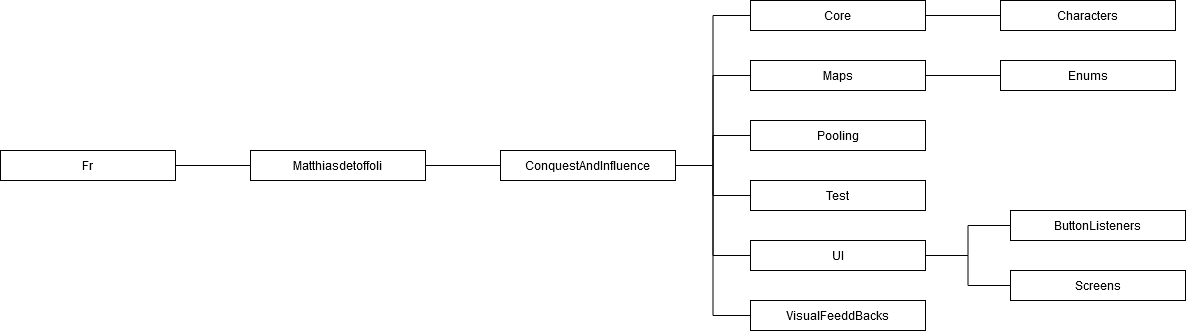
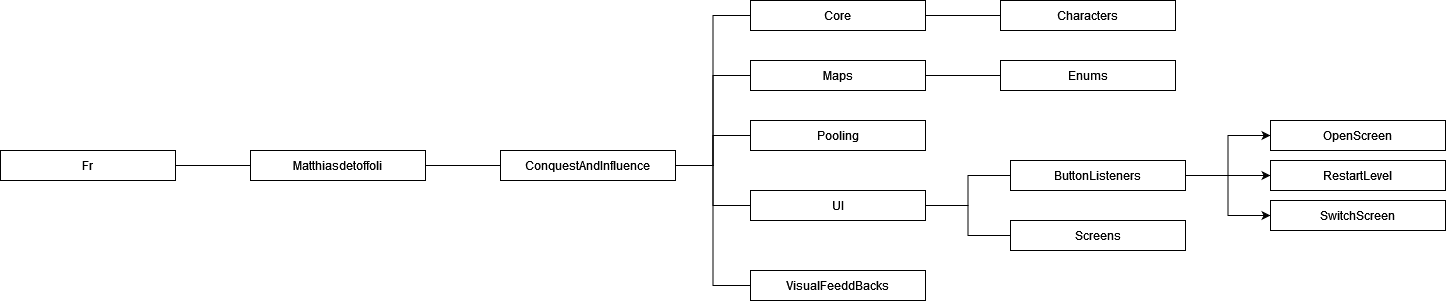
[UPDATE] update the documentation for improving it and matching with the current project

diff --git a/Documentations/TDD.md b/Documentations/TDD.md
@@ -1,75 +1,83 @@
 # Technical Design Document
 
 ## Contents
-**I** *- Versions*
 
-**II** *- About it*
-* **A** *- Why this ?*
-* **B** *- What is it ?*
-	* *Victory condition*
-	* *Defeat condition*
-* **C** *- Platform target*
-* **D** *- 3C*
-	* *Camera*
-	* *Controls*
-	* *Character*
+**I** *- [Versions](#versions)*
 
-**III** *- Tools*
-* **A** *- Research*
-* **B** *- Software*
-* **C** *- Language*
-* **D** *- Libraries*
+**II** *- [About it](#about-it)*
+* **A** *- [Why this ?](#why-this-)*
+* **B** *- [What is it ?](#what-is-it-)*
+	* *[Victory condition](#victory-condition)*
+	* *[Defeat condition](#defeat-condition)*
+* **C** *- [Platform target](#platform-target)*
+* **D** *- [3C](#3c)*
+	* *[Camera](#camera)*
+	* *[Controls](#control)*
+	* *[Character](#character)*
 
-**IV** *- Project*
-* **A** *- Model*
-	* *Legend*
-	* *Diagram*
-* **B** *- Project structur*
-	* *Legend*
-	* *Assets*
-		* *Animators*
-		* *Clips*
-			* *Feedbacks*
-			* *Square*
-		* *Scenes*
-		* *Scripts*
-			* *Maps*
-			* *UI*
-		* *Sprites*
-* **C** *- Namespaces*
-* **D** *- Coding rules*
-	* *Using*
-	* *Structure of a class or a struct*
-	* *Singletons*
-	* *Brackets*
-	* *Regions*
-	* *Methods*
-	* *Comments*
-	* *Variables*
-	* *Strings*
-	* *Values*
-	* *Condition*
-	* *Loops*
-	* *Events*
-	* *Nomenclature*
-		* *Namespaces*
-		* *Classes / Structs*
-		* *Metodes*
-		* *Constants*
-		* *Properties*
-		* *Events*
-		* *Fields*
-		* *Variables*
-		* *Parameter*
-		* *List, Array, Dictionary Etc*
-		* *Enum*
+**III** *- [Tools](#tools)*
+* **A** *- [Research](#research)*
+* **B** *- [Software](#software)*
+* **C** *- [Language](#language)*
+* **D** *- [Libraries](#libraries)*
 
-**V** *- Hard points of the project*
-* **A** *-Graphism and songs*
-* **B** *-Unity 2D*
-* **C** *-How to resolved this problems ?*
-	* *Graphism and songs*
-	* *Unity 2D*
+**IV** *- [Project](#project)*
+* **A** *- [Model](#model)*
+	* *[Legend](#legend)*
+	* *[Diagram](#diagram)*
+* **B** *- [Project structur](#project-structur)*
+	* *[Legend](#legend-1)*
+	* *[Assets](#assets)*
+		* *[Animations](#animations)*
+			* *[Animators](#animators)*
+			* *[Clips](#clips)*
+				* *Feedbacks*
+				* *Square*
+		* *[Scripts](#scripts)*
+			* *[Core](#core)*
+			* *[Maps](#maps)*
+			* *[UI](#ui)*
+				* *ButtonListeners*
+		* *[Sprites](#sprites)*
+* **C** *- [Namespaces](#namespaces)*
+* **D** *- [Coding rules](#coding-rules)*
+	* *[Using](#using)*
+	* *[Namespaces](#namespaces-1)*
+	* *[Structure of a class](#structure-of-a-class)*
+	* *[Singletons](#singletons)*
+	* *[Brackets](#brackets)*
+	* *[Regions](#regions)*
+	* *[Methods](#methods)*
+	* *[Comments](#comments)*
+	* *[Variables](#variables)*
+	* *[Strings](#strings)*
+	* *[Values](#values)*
+	* *[Condition](#condition)*
+	* *[Loops](#loops)*
+	* *[Events](#events)*
+	* *[Nomenclature](#nomenclature)*
+		* *[Folder](#folder)*
+		* *[Namespaces](#namespaces-2)*
+		* *[Classes / Structs](#classes--structs)*
+		* *[Methods](#methods)*
+		* *[Constants](#constants)*
+		* *[Properties](#properties)*
+		* *[Events](#events-1)*
+		* *[Fields](#fields)*
+		* *[Variables](#variables-1)*
+		* *[Parameter](#parameter)*
+		* *[List, Array, Dictionary Etc](#list-array-dictionary-etc)*
+		* *[Enum](#enum)*
+* **E** *- [Commit Rules](#commit-rules)*
+	* *[Commit keys](#commit-keys)*
+	* *[Master](#master)*
+
+**V** *- [Hard points of the project](#hard-points-of-the-project)*
+* **A** *- [Graphism and songs](#graphism-and-songs)*
+* **B** *- [Unity 2D](#unity-2d)*
+* **C** *- [How to resolved this problems ?](#how-to-resolved-this-problems-)*
+	* *[Graphism and songs](#graphism-and-songs-1)*
+	* *[Unity 2D](#unity-2d-1)*
 	
 ## Versions
 | VX.X | Date       | Title  													  | Comments																	 								     | Author              |
@@ -89,6 +97,8 @@
 | V1.5 | 04/14/2021 | Update diagrams											  | Update some diagrams and add Core folder's diagram																 | Matthias de Toffoli |
 | V1.6 | 07/22/2021 | Add background to some images	  							  | Add a white background to some images																	   		 | Matthias de Toffoli |
 | V1.7 | 11/23/2021 | Update the diagrams 			  							  | Update the diagram for matching with the project files															 | Matthias de Toffoli |
+| V1.8 | 10/12/2022 | Update the summary 			  							  | Update the summary and add links for go directly to titles, correct some spelling mistakes						 | Matthias de Toffoli |
+| V1.9 | 10/13/2022 | Update the diagrams 			  							  | Update all the diagrams for matching with the current project													 | Matthias de Toffoli |
 
 ## About it
 ### Why this ?
@@ -116,7 +126,7 @@ Touch only
 ### Research
 No tool researchs was make for this project beause the goal is to improve my skills with Unity.
 ### Software
-Unity 3D 2020.1.0f1
+Unity 3D 2021.3.10f1
 ### Language
 C# with .Net 4.6
 ### Libraries
@@ -149,8 +159,6 @@ Will use managers, they will manage their part and single objects will be manage
 * *Square*
 
 ![Square folder diagram](./pictures/TDD/Folders/Clips_Square.png "Clips/Square folder")
-##### Scenes
-![Scenes folder diagram](./pictures/TDD/Folders/Scenes.png "Scenes folder")
 ##### Scripts
 ![Scripts folder diagram](./pictures/TDD/Folders/Scripts.png "Scripts folder")
 ###### Core
@@ -159,6 +167,8 @@ Will use managers, they will manage their part and single objects will be manage
 ![Maps folder diagram](./pictures/TDD/Folders/Maps.png "Maps folder")
 ###### UI
 ![UI folder diagram](./pictures/TDD/Folders/UI.png "UI folder")
+* *ButtonListeners*
+![ButtonListeners folder diagram](./pictures/TDD/Folders/UI_ButtonListeners.png "ButtonListeners folder")
 ##### Sprites
 ![Sprites folder diagram](./pictures/TDD/Folders/Sprites.png "Sprites folder")
 ### Namespaces
@@ -175,7 +185,7 @@ without assets and scripts folders.
 One exception for the folder Editor the namespace will finish by PersonalEditor, for not have conflict with UnityEngine.Editor.
 *With this type of namespace it will be easyer to find files.*
 
-#### Structurs of a class
+#### Structure of a class
 In the class write first the constants followed by the events, the fields,  the properties, after that the constructors the methods and finally the classes/structs. 
 ```C#
 MyClass 
@@ -191,7 +201,7 @@ MyClass
 ```
 *more legible*
 
-### Singletons
+#### Singletons
 use it less as possible.
 *use too much singletons is not a good practice*
 
@@ -230,7 +240,7 @@ Write in order of calling most as possible. Unity's methods are always after the
 
 #### Comments
 Comment most as possible,
-for classes, metodes and properties use the summary
+for classes, methods and properties use the summary
 ```C#
 /// <summary>
 /// ...
@@ -239,7 +249,7 @@ for classes, metodes and properties use the summary
 ///<return>...</return>
 ```
 complet all parts even if it's obvious (maybe it's not for others)
-For comments in metodes use simple comments with //
+For comments in methods use simple comments with //
 don't write comments at the left of a line all comments has to be in it own line, let a blank line
 before write a comment but not after.
 ```C#
@@ -272,7 +282,7 @@ Never use var
 *More legible*
 
 #### Strings
-Use strings metodes more than possible (string.format is better than str + str2)
+Use strings methods more than possible (string.format is better than str + str2)
 *More performant*
 
 #### Values
@@ -344,7 +354,7 @@ Like folders except Fr.Matthiasdetoffoli
 ##### Classes / Structs
 Upper camel case
 *More legible.*
-##### Metodes
+##### methods
 Upper camel case
 *More legible.*
 ##### Constants
@@ -395,7 +405,7 @@ For this project I will use a key word between *[]* followed by a short descript
 
 I can add *.WIP* after the key for say it's not finished. If I do that the commit used when the featur will be finished will be the same without a WIP. That's mean a commit with the key *[ADD.WIP]* will be followed by a commit *[ADD]* when the feature will be finished.
 
-#### master
+#### Master
 I will push on master only finished features. The project have to always work on master. I will use other branches for my devellopments.
 
 ## Hard points of the project

diff --git a/Documentations/GDD.md b/Documentations/GDD.md
@@ -1,52 +1,51 @@
 # Game Design Document
 
 ## Contents
-**I** *- Versions*
+**I** *- [Versions](#versions)*
 
-**II** *- Product Description*
+**II** *- [Product Description](#product-description)*
 
-**III** *- Concept*
+**III** *- [Concept](#concept)*
 
-**IV** *- Gameplay and mechanics*
-* **A** *- Victory condition*
-* **B** *- Defeat condition*
-* **C** *- 3C*
-	* *Camera*
-	* *Control*
-	* *Character*
-* **D** *-Flowshart*
-	* *Legend*
-	* *Hero*
-	* *Messenger*
-	* *Square*
-* **E** *- UI*
-	* *Interaction*
-	* *Legend*
-	* *Start screen*
-	* *Main menu*
-	* *Level selector*
-	* *HUD*
-	* *Pause menu*
+**IV** *- [Gameplay and mechanics](#gameplay-and-mechanics)*
+* **A** *- [Victory condition](#victory-condition)*
+* **B** *- [Defeat condition](#defeat-condition)*
+* **C** *- [3C](#3c)*
+	* *[Camera](#camera)*
+	* *[Control](#control)*
+	* *[Character](#character)*
+* **D** *-[Flowshart](#flowshart)*
+	* *[Legend](#legend)*
+	* *[Hero](#hero)*
+	* *[Square](#square)*
+* **E** *- [UI](#ui)*
+	* *[Interaction](#interaction)*
+	* *[Legend](#legend-1)*
+	* *[Start screen](#start-screen)*
+	* *[Main menu](#main-menu)*
+	* *[Level selector](#level-selector)*
+	* *[HUD](#hud)*
+	* *[Pause menu](#pause-menu)*
 	
-* **F** *- Level Design*
-	* *LD Bricks*
-	* *Level 1*
-	* *Level 2*
-	* *Level 3*
-	* *Level 4*
-	* *Level 5*
-	* *Level 6*
-	* *Level 7*
-	* *Level 8*
-	* *Level 9*
-	* *Level 10*
-	* *Level 11*
-	* *Level 12*
-	* *Level 13*
-	* *Level 14*
-	* *Level 15*
-	* *Level Epilogue*
-	
+* **F** *- [Level Design](#level-design)*
+	* *[LD Bricks](#ld-bricks)*
+	* *[Level 1](#level-1)*
+	* *[Level 2](#level-2)*
+	* *[Level 3](#level-3)*
+	* *[Level 4](#level-4)*
+	* *[Level 5](#level-5)*
+	* *[Level 6](#level-6)*
+	* *[Level 7](#level-7)*
+	* *[Level 8](#level-8)*
+	* *[Level 9](#level-9)*
+	* *[Level 10](#level-10)*
+	* *[Level 11](#level-11)*
+	* *[Level 12](#level-12)*
+	* *[Level 13](#level-13)*
+	* *[Level 14](#level-14)*
+	* *[Level 15](#level-15)*
+	* *[Epilogue](#epilogue)*
+
 	
 ## Versions
 | VX.X | Date       | Title							  | Comments																										| Author              |
@@ -61,7 +60,8 @@
 | V1.2 | 04/08/2021 | Add a missing point			  | Add a missing skills for the character																			| Matthias de Toffoli |
 | V1.3 | 07/10/2021 | Add level designs				  | Add the 15 level's diagrams and the epilogue's one and update the LD Bricks										| Matthias de Toffoli |
 | V1.4 | 07/22/2021 | Add background to some images	  | Add a white background to some images																			| Matthias de Toffoli |
-| V1.4 | 11/23/2021 | Add UIs diagrams				  | Add diagrams for user interfaces and update the others															| Matthias de Toffoli |
+| V1.5 | 11/23/2021 | Add UIs diagrams				  | Add diagrams for user interfaces and update the others															| Matthias de Toffoli |
+| V1.6 | 10/12/2022 | Update the summary			  | Update the summary and add links for go directly to titles														| Matthias de Toffoli |
 
 ## Product Description
 * Pitch : It's a 2D mobile mind break game, you will conquer a square that will influence the adjacent squares for conquer them too. An opponent will do same. Every square on your side will give you power, if you have more power than your opponent you will can defeat him.
